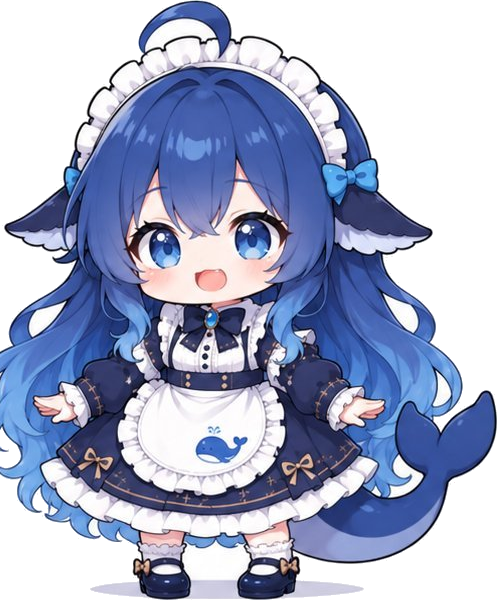
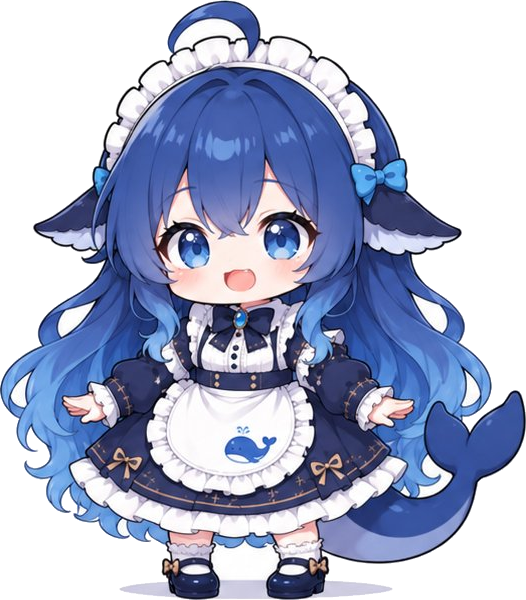
fix(web): 修复立绘左侧头发被裁29px——裁剪框左界x=0;make_whale_chan.py固化抠图流程(scipy连通域泛洪+孤立碎块清理89块,清除侧视图发丝泄漏);表情差分素材接入——官方图集Chubby Whale桌宠5帧(SlimeNull,Issue#80,CC BY-NC-SA 4.0)转PNG入库emo/{idle,cheer,eat,walk,sleep};setEmo支持全身差分切换(sleepy->sleep,happy->cheer,余者回落设定图本体);emo/ATTRIBUTION.md署名;六闸门全绿

diff --git a/web/frontend/index.html b/web/frontend/index.html
@@ -333,17 +333,24 @@ async function speak(text, emo) {
 /* ---- 表情引擎(借鉴 Open-LLM-VTuber expression mapping,SVG 轻量版) ---- */
 const EMO_PARTS = {
   normal: { eyes: "eyes", mouth: "mouthN" },
-  happy:  { eyes: "eyesH", mouth: "mouthH" },
+  happy:  { eyes: "eyesH", mouth: "mouthH", img: "assets/emo/cheer.png" },
   shy:    { eyes: "eyes", mouth: "mouthSad", blush: "big" },
   pouty:  { eyes: "eyesP", mouth: "mouthP" },
   sad:    { eyes: "eyesSad", mouth: "mouthSad" },
-  sleepy: { eyes: "eyesSleepy", mouth: "mouthSleepy", zzz: true },
+  sleepy: { eyes: "eyesSleepy", mouth: "mouthSleepy", zzz: true, img: "assets/emo/sleep.png" },
 };
+/* 官方差分立绘（SlimeNull 大肥鱼桌宠 Chubby Whale, Issue #80, CC BY-NC-SA 4.0） */
+const EMO_IMG_DEFAULT = "assets/whale_chan.png";
+const EMO_EXTRA = { eat: "assets/emo/eat.png", walk: "assets/emo/walk.png", idle: "assets/emo/idle.png" };
 const EMO_IDS = ["eyes", "eyesH", "eyesP", "eyesSad", "eyesSleepy",
   "mouthN", "mouthH", "mouthP", "mouthSad", "mouthSleepy"];
 
 function setEmo(name) {
   const cfg = EMO_PARTS[name] || EMO_PARTS.normal;
+  // 全身差分立绘优先（官方桌宠素材），无差分的情绪回落到静态设定图本体
+  const imgSrc = (EMO_PARTS[name] && EMO_PARTS[name].img) || EMO_EXTRA[name] || EMO_IMG_DEFAULT;
+  const img = document.getElementById("whaleImg");
+  if (img && !img.src.endsWith(imgSrc)) img.src = imgSrc;
   EMO_IDS.forEach(id => { const el = document.getElementById(id); if (el) el.style.display = "none"; });
   const e = document.getElementById(cfg.eyes), m = document.getElementById(cfg.mouth);
   if (e) e.style.display = "";

diff --git a/scripts/make_whale_chan.py b/scripts/make_whale_chan.py
@@ -1,0 +1,90 @@
+#!/usr/bin/env python3
+"""从官方 Q 版设定图抠出正面立绘 -> web/frontend/assets/whale_chan.png
+
+用法（Windows venv 或任意带 Pillow+numpy+scipy 的 Python）:
+    python make_whale_chan.py <设定图路径> [输出路径]
+
+流程:
+  1. 裁剪前视图区域（含完整左侧头发: x 从 0 起）
+  2. scipy.ndimage.label 做连通域背景泛洪（从边缘起），白底 -> 透明
+  3. 近白晕圈羽化（与背景相邻的近白像素 -> 半透明）
+  4. alpha bbox 裁紧 + 自检（左/右/上/下边缘不得有硬切内容）
+"""
+import sys
+import numpy as np
+from PIL import Image
+from scipy import ndimage
+
+# 前视图在 1448x1086 设定图中的范围（左上角起）
+CROP = (0, 0, 555, 618)   # left, top, right, bottom —— left=0 保住左侧飘发
+BG_THRESHOLD = 240        # 亮度 >= 此值视为候选背景
+HALO_THRESHOLD = 225      # 与背景相邻且亮度 >= 此值 -> 半透明晕圈
+
+
+def extract(src_path: str, out_path: str) -> Image.Image:
+    im = Image.open(src_path).convert("RGB")
+    crop = im.crop(CROP)
+    a = np.asarray(crop).astype(np.int16)
+    lum = a.mean(axis=2)
+
+    # 背景候选：亮色像素
+    bright = lum >= BG_THRESHOLD
+    # 只保留与图像边缘连通的亮色区域（角色内部的白色围裙/头饰不受影响）
+    labels, _ = ndimage.label(bright)
+    border_labels = set(
+        np.unique(np.concatenate([labels[0], labels[-1], labels[:, 0], labels[:, -1]]))
+    )
+    border_labels.discard(0)
+    bg = np.isin(labels, list(border_labels))
+
+    alpha = np.where(bg, 0, 255).astype(np.uint8)
+
+    # 晕圈：与背景相邻的近白像素降为半透明，软化 JPEG 白边
+    near_white = (lum >= HALO_THRESHOLD) & ~bg
+    neighbor_bg = ndimage.binary_dilation(bg, iterations=1)
+    halo = near_white & neighbor_bg
+    alpha[halo] = 120
+
+    rgba = np.dstack([np.asarray(crop).astype(np.uint8), alpha])
+    out = Image.fromarray(rgba, "RGBA")
+
+    # 只保留最大不透明连通域（清除侧视图泄漏的发丝等孤立残留）
+    solid = alpha > 60
+    clabels, cnum = ndimage.label(solid)
+    if cnum > 1:
+        sizes = ndimage.sum(solid, clabels, range(1, cnum + 1))
+        keep = int(np.argmax(sizes)) + 1
+        removed = cnum - 1
+        alpha[clabels != keep] = 0
+        rgba = np.dstack([np.asarray(crop).astype(np.uint8), alpha])
+        out = Image.fromarray(rgba, "RGBA")
+        print(f"[clean] 移除 {removed} 个孤立碎块")
+
+    # 裁紧到内容 bbox
+    bbox = out.getbbox()
+    out = out.crop(bbox)
+
+    # 自检：四边不应有大量不透明像素贴边（硬切痕迹）
+    arr = np.asarray(out)[:, :, 3]
+    edges = {"top": arr[0], "bottom": arr[-1], "left": arr[:, 0], "right": arr[:, -1]}
+    for name, line in edges.items():
+        solid = int((line > 200).sum())
+        if solid > 40:
+            print(f"[WARN] {name} 边缘有 {solid} 个硬切像素，裁剪框可能不足")
+    return out
+
+
+def main():
+    src = sys.argv[1] if len(sys.argv) > 1 else "q版设定图_官方.jpg"
+    out_path = (
+        sys.argv[2]
+        if len(sys.argv) > 2
+        else "web/frontend/assets/whale_chan.png"
+    )
+    out = extract(src, out_path)
+    out.save(out_path)
+    print(f"OK -> {out_path}  size={out.size[0]}x{out.size[1]}")
+
+
+if __name__ == "__main__":
+    main()

diff --git a/web/frontend/assets/emo/ATTRIBUTION.md b/web/frontend/assets/emo/ATTRIBUTION.md
@@ -1,0 +1,13 @@
+# 表情差分素材来源
+
+`emo/*.png` 来自官方图集「deepseek-whale-girl-gallery」社区投稿：
+
+- 作品：大肥鱼桌宠 Chubby Whale（发呆 / 欢呼 / 吃饭 / 走路 / 睡觉，共 5 帧）
+- 作者：SlimeNull
+- 来源：https://github.com/TreapGoGo/deepseek-whale-girl/issues/80
+- 图集页：https://iphsiibl.github.io/deepseek-whale-girl-gallery/（community/issue-80-01~05.webp）
+- 许可：CC BY-NC-SA 4.0（署名-非商业性使用-相同方式共享）
+- 用途：个人摆件 web 前端全身表情差分，非商用
+
+主立绘 `../whale_chan.png` 抠自官方 Q 版设定图正面视图，
+由 `scripts/make_whale_chan.py` 生成（可复现）。
